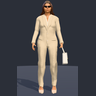
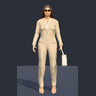
Female Executive preset: settings from the user's share link

diff --git a/src/core/params.ts b/src/core/params.ts
@@ -159,23 +159,12 @@ export function yearsToAge(y: number): number {
 
 export const PRESETS: Record<string, Partial<HumanParams>> = {
   // Newest characters first.
-  // Latina executive: a cream tailored pantsuit over a champagne silk blouse, pointed nude heels, an ivory
-  // top-handle handbag, gold watch and necklace, dark sunglasses.
+  // Executive: a cream tailored pantsuit over a champagne silk blouse, pointed nude heels, an ivory
+  // top-handle handbag, a fine gold pendant and aviators.
   'The Female Executive': {
-    gender: 0, age: 0.48, muscle: 0.45, weight: 0.42, height: 0.62, proportions: 0.9, breastSize: 0.55, breastFirmness: 0.7,
-    // Latina: mixed European and indigenous features, warm olive skin; a soft oval face, full lips,
-    // slightly larger eyes, high cheekbones and a narrow nose and jaw.
-    african: 0.1, asian: 0.25, caucasian: 0.65, eyes: 'brown', eyebrows: 'eyebrow010', eyelashes: 'eyelashes02',
-    modifiers: {
-      'head/head-oval': 0.5, 'eyes/eye-scale': 0.2, 'eyes/eye-scale:decr|incr': 0.2, 'cheek/cheek-bones': 0.3, 'cheek/cheek-bones:decr|incr': 0.3,
-      'mouth/mouth-upperlip-volume': 0.35, 'mouth/mouth-lowerlip-volume': 0.35, 'nose/nose-scale-horiz': -0.25, 'nose/nose-point-width': -0.3, 'chin/chin-width': -0.25,
-    },
-    hair: 'long01', skinTint: '#e6c09b', earrings: 'studs', earringMetal: 'gold', expression: 'determined',
-    outfit: 'set_pantsuit', shoes: 'heels', carry: 'handbag', accessories: ['fine_pendant', 'watch_gold', 'sunglasses_sleek'],
-    garmentStyles: {
-      silk_blouse: { pattern: 'satin', color: '#ead8bb', color2: '#fff4df' },
-      heels: { pattern: 'patent', color: '#e2c6ab' },
-    },
+    gender: 0, age: 0.52, muscle: 0.65, weight: 0.38, height: 0.58, proportions: 0.85, breastSize: 0.55,
+    african: 0.24, asian: 0.68, caucasian: 0, eyebrows: 'eyebrow010', eyelashes: 'eyelashes02', hair: 'long01',
+    outfit: 'set_pantsuit', shoes: 'heels', carry: 'handbag', accessories: ['fine_pendant', 'aviators'],
   },
   // Gulf oil tycoon: a white thobe, red-and-white keffiyeh with a black agal, gold chain, gold watch
   // and signet ring, dark sunglasses and black leather slides.
